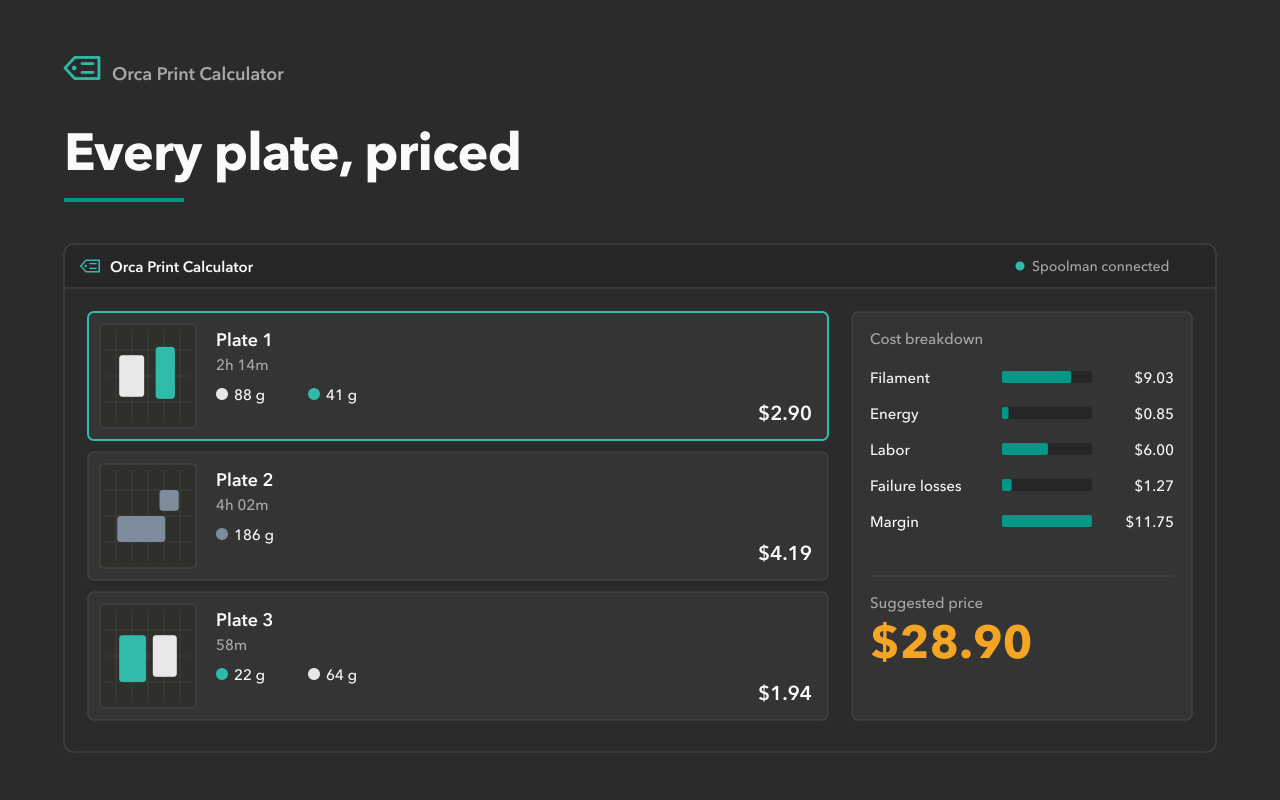
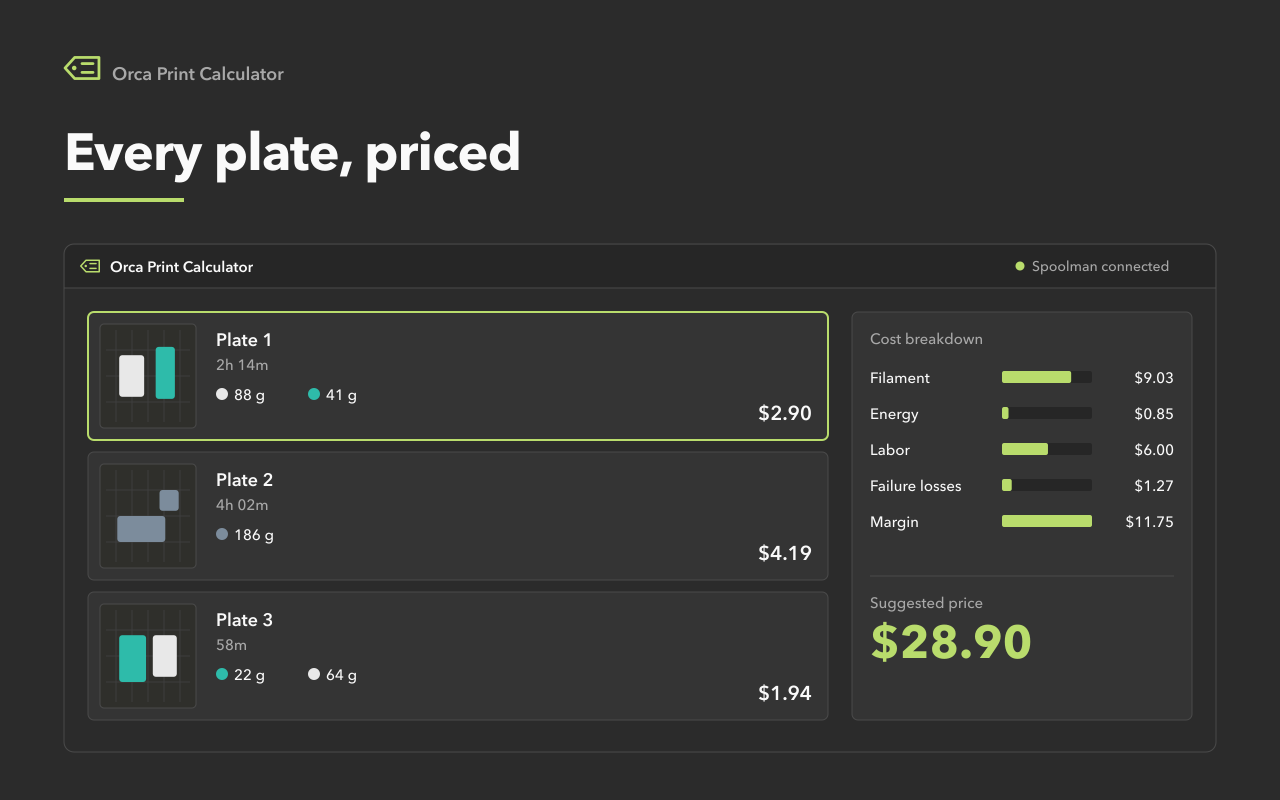
docs(brand): move the brand from teal and amber to deep green and lime
The logo, tile, hero, social and listing images are rebuilt from the same
mark geometry in deep green (light) and lime (graphite), with the price in
lime. BRAND.md describes the lime palette, its contrast pairs and that the
UI takes every colour from the shared foundation; amber is for warnings.

diff --git a/brand/BRAND.md b/brand/BRAND.md
@@ -10,77 +10,69 @@
 Workshop-precise, plain, numerate. Says what the number is and where it came from. Short sentences, active verbs, units always shown. pt-BR uses the imperative ("Precifique", "Envie"), not the formal "o usuário". No hype ("revolutionary", "powerful"), no exclamation marks, no AI talk, no emoji. Money and grams are the heroes; the copy stays out of their way.
 
 ## Palette
+Since 0.5.0 the plugin is lime, the accent it has in the Orca UI foundation 4 family (each sibling plugin has its own). The suggested price is the hero, in the accent. Amber is for warnings only: a partial price, a missing value, a stand-in price.
+
 | Token | Hex | Use |
 |---|---|---|
-| Orca teal | `#009688` | Mark and non-text accents on light |
-| Deep teal | `#00675B` | Text, links and focus on light surfaces; fill under white text |
-| Teal light | `#2EBBAA` | Mark, text, links on graphite (dark-theme counterpart of teal) |
-| Graphite | `#2B2B2B` | Dark surface; text on light |
+| Deep green | `#446600` | The app band (same in both themes), the mark on light surfaces, fills under white text |
+| Lime | `#B9DC6C` | Mark, rules, bars, text and the price on graphite (dark-theme counterpart of deep green) |
+| Graphite | `#2B2B2B` | Dark surface for marketing images; text on light |
 | Off-white | `#FAFAFA` | Light surface; text on dark |
-| Amber | `#F5A524` | **Only the price.** Dark surfaces only |
-| Amber, light theme | `#8A5800` | The price on light surfaces (6.04 on `#FFFFFF`, 5.79 on `#FAFAFA`) |
 | Muted (dark) | `#A8A8A8` | Secondary text on graphite |
 | Muted (light) | `#5C6664` | Secondary text on off-white |
+| Warning amber, light | `#7A4F00` | Warnings on light surfaces only (from the shared palette) |
+| Warning amber, dark | `#F3CC70` | Warnings on dark surfaces only (from the shared palette) |
 
-Brand values above are for assets and docs. The plugin UI follows the host `--orca-*` tokens, with the rules below. `#2EBBAA`, `#A8A8A8`, `#5C6664` extend the plan palette to keep AA on both themes.
+Brand values above are for assets and docs. The plugin UI takes every colour from the shared foundation (`ui/shared`, `--oui-*` tokens) with the `lime` accent (`installOrcaUI(app, locale, "lime")` in `ui/src/orcaUi.ts`); it writes no colour of its own.
 
 ### Contrast (WCAG 2.x, computed)
 | Pair | Ratio | Verdict |
 |---|---|---|
 | `#2B2B2B` on `#FAFAFA` (and reverse) | 13.57 | AAA text |
-| `#00675B` on `#FAFAFA` | 6.51 | AA text |
-| `#00675B` on `#FFFFFF` | 6.79 | AA text |
-| `#2EBBAA` on `#2B2B2B` | 5.94 | AA text |
+| `#446600` on `#FFFFFF` | 6.67 | AA text |
+| `#446600` on `#FAFAFA` | 6.39 | AA text |
+| `#FFFFFF` on `#446600` | 6.67 | AA text (the app band) |
+| `#B9DC6C` on `#2B2B2B` | 9.11 | AAA text |
+| `#B9DC6C` on `#343434` | 8.01 | AAA text |
 | `#A8A8A8` on `#2B2B2B` | 5.95 | AA text |
 | `#5C6664` on `#FAFAFA` | 5.68 | AA text |
-| `#F5A524` on `#2B2B2B` | 6.94 | AA text |
-| `#8A5800` on `#FFFFFF` | 6.04 | AA text |
-| `#8A5800` on `#FAFAFA` | 5.79 | AA text |
-| `#FFFFFF` on `#00675B` | 6.79 | AA text |
-| `#009688` on `#FFFFFF` | 3.67 | Graphics and large text only (3:1) |
-| `#009688` on `#FAFAFA` | 3.52 | Graphics and large text only |
-| `#009688` on `#2B2B2B` | 3.86 | Graphics and large text only |
-| `#FFFFFF` on `#009688` | 3.67 | Large text and icons only |
-| `#00675B` on `#2B2B2B` | 2.08 | **Fail** — never use on dark |
-| `#F5A524` on `#FFFFFF` | 2.04 | **Fail** — never use amber on light |
+| `#7A4F00` on `#FFFFFF` | 7.13 | AA text |
+| `#446600` on `#2B2B2B` | 2.12 | **Fail** — never use deep green on dark |
+| `#B9DC6C` on `#FFFFFF` | 1.55 | **Fail** — never use lime on light |
 
 ### UI rules (plugin CSS)
-- `--orca-accent` (`#009688` light, `#00675B` dark) is for fills under `--orca-accent-fg` and for borders only. Never use it as text, link or focus colour on dark (2.08:1).
-- Accent text, links and focus rings on dark use `--opc-accent-text: #2EBBAA`:
-```css
-:root { --opc-accent-text: #00675B; --opc-price: #8A5800; }
-[data-orca-theme="dark"] { --opc-accent-text: #2EBBAA; --opc-price: #F5A524; }
-```
-- Price figure: `--opc-price`, one per screen. Muted text: `--orca-muted`; check it reaches 4.5:1 on `--orca-bg` in both themes.
+- No colour literals in `ui/src`: use `--oui-*` tokens (`--oui-primary` for the accent, `--oui-warning` for warnings), or `.orca-dark` for anything else. Never `light-dark()`. `ui/tests/themeContrast.test.ts` checks the pairs from the shared palette.
+- Price figure: the hero readout in the accent band, one per screen. A partial price leaves the band for the warning tint and is marked incomplete; a loss takes the danger tint.
+- The printed quote is the customer's document: white paper, the shop's own logo and rule colour (Settings, Quote sheet), ink text. It does not use the plugin's palette.
 
-Rule of thumb: on light, teal text is `#00675B`; on dark, teal text is `#2EBBAA`. Plain `#009688` is for the mark and non-text graphics.
+Rule of thumb: on light, green text is `#446600`; on dark, it is `#B9DC6C`.
 
 ## Typography
 - Assets (build on macOS: text uses the system Avenir Next, other OSes fall back to different metrics): geometric sans, bold (700) for wordmark and headlines, semibold (600) for labels. Rendered assets use Avenir Next with Helvetica Neue fallback (system fonts, no licensing).
-- Plugin UI: inherit `--orca-font`; do not ship a webfont. Tabular numerals for money and weights.
+- Plugin UI: Manrope, embedded by the shared foundation (`ui/shared/src/fonts`, a `data:` font allowed by the page policy `font-src data:`). Tabular numerals for money and weights.
 - Scale (assets): wordmark 34-56, headline 52, label 12-18. Letter-spacing -0.01em on display sizes only.
 
 ## Logo
 The mark: a price tag pointing left (the "price"), a punched hole at its point, two layer-line bars on the face (the "print"). 24x24 grid, 1.5 stroke, round caps and joins, single color. Spool meaning lives in the empty states and copy, not in the mark. Do not put a centered hub circle in a ring: that is the Spooler tab glyph.
 - Construction: tag `M2.75 12L8 6.25H21.25V17.75H8Z`; hole `circle (7.75,12) r1.25` solid; bars `M12 9.6H18M12 14.4H18` (y snapped to the 1.2 grid so edges land on whole pixels at 20px).
-- Files: `brand/logo.svg` (teal `#009688`, for light), `brand/logo-dark.svg` (`#2EBBAA`, for graphite), `ui/src/icon.svg` (`currentColor`, 20px tab glyph, same geometry and 1.5 stroke as the Spooler and Orca tab icons).
+- Files: `brand/logo.svg` (deep green `#446600`, for light), `brand/logo-dark.svg` (lime `#B9DC6C`, for graphite), `ui/src/icon.svg` (`currentColor`, 20px tab glyph, same geometry and 1.5 stroke as the Spooler and Orca tab icons).
 - Clear space: 1/4 of mark width on all sides. Minimum size: 16px. Wordmark lockup minimum 120px wide.
 - Lockup: mark left, wordmark right, gap = 1/3 mark width, vertically centered.
-- Tile (`icon-512.png`): graphite rounded square, mark in teal light at 60% width, 1px inner border.
+- Tile (`icon-512.png`): graphite rounded square, mark in lime at 60% width, 1px inner border.
 - Checked at 16px and 20px on `#2B2B2B` and `#FFFFFF`, beside the Spooler glyph (nearest-neighbour zoom): tag outline, hole and both bars stay separate at 20px; at 16px the bars are slightly soft but distinct.
 
 ## Do
-- Use graphite surfaces for marketing images; teal as a thin rule or the mark only.
-- Show the price colour (amber on dark, `#8A5800` on light) on exactly one number per screen: the suggested price, or the selected channel's price.
+- Use graphite surfaces for marketing images; lime as a thin rule, bars and the mark.
+- Show the price in the accent (lime on dark, the deep green band in the UI) on exactly one number per screen: the suggested price, or the selected channel's price.
 - Keep strokes 1.5-2px, corners 2px (6px for cards), generous negative space.
 - Show real-looking data: plates, grams, spool names, currency symbols.
 
 ## Don't
 - No gradients, glows, glossy 3D, mascots or orcas, sparkles, robots, coins or dollar-sign clipart.
-- No `#F5A524` on light; no `#00675B` on dark; no teal body text on `#009688`.
+- No `#B9DC6C` on light; no `#446600` on dark; no amber except for a warning.
 - Do not recolor, outline, rotate, stretch or add effects to the mark; do not place it on busy imagery.
 - Do not fill the ring or merge the dot into the bars.
 - No emoji in UI or marketing copy.
 
 ## Asset index
-`brand/logo.svg`, `logo-dark.svg`, `logo-512.png`, `logo-1024.png` (transparent), `icon-512.png`, `icon-256.png`, `hero.png`, `social.png`, `listing-1..4.png` + `-pt`, `ui/src/icon.svg`, `ui/src/assets/empty-{plate,spool,quote}.svg`. SVG sources and the regeneration script live in `brand/src/` (`npm i --no-save sharp && node brand/src/build.mjs`).
+`brand/logo.svg`, `logo-dark.svg`, `logo-512.png`, `logo-1024.png` (transparent), `icon-512.png`, `icon-256.png`, `hero.png`, `social.png`, `listing-1..4.png` + `-pt`, `ui/src/icon.svg`, `ui/src/assets/calculator-quote.webp` (the empty-state illustration, from the foundation's illustration set). SVG sources and the regeneration script live in `brand/src/` (`npm i --no-save sharp && node brand/src/build.mjs`).

diff --git a/brand/prompts.md b/brand/prompts.md
@@ -6,14 +6,14 @@ Note: the UI mocks in sections 4 and 5 are design mockups, not product screensho
 
 ## Shared style block (append to every prompt)
 ```
-Brand: "Orca Print Calculator", an OrcaSlicer plugin that prices 3D prints. Palette: Orca teal #009688, deep teal #00675B, graphite #2B2B2B, off-white #FAFAFA, one warm amber #F5A524 used only for the price figure. Flat vector, precise engineering feel; 1.5px strokes, 2px corner radius, generous negative space, geometric sans-serif type. Pixel-sharp edges, solid fills, no texture.
+Brand: "Orca Print Calculator", an OrcaSlicer plugin that prices 3D prints. Palette: deep green #446600, lime #B9DC6C, graphite #2B2B2B, off-white #FAFAFA, the price figure in lime; amber only for warnings. Flat vector, precise engineering feel; 1.5px strokes, 2px corner radius, generous negative space, geometric sans-serif type. Pixel-sharp edges, solid fills, no texture.
 Negative prompt: glossy 3D render, gradient, glow, drop shadow, robot, AI motif, sparkle, orca/whale mascot, coins, dollar-sign clipart, emoji, stock photo, hands, watermark, misspelled or extra text; no text unless stated.
 ```
 
 ## 1. Logo mark
 ```
 Size: 1024x1024. Background: transparent.
-Minimal logo mark: a price tag pointing left, drawn as a single outline (flat right edge, angled left point), stroke weight about 8% of the mark's width, round caps and joins. A solid circular punch hole sits inside the left point. To the right of the hole, two short parallel horizontal bars (layer lines) stacked with a gap equal to the stroke weight. Single color teal #009688. Geometric, optically centered, legible at 16px, nothing else.
+Minimal logo mark: a price tag pointing left, drawn as a single outline (flat right edge, angled left point), stroke weight about 8% of the mark's width, round caps and joins. A solid circular punch hole sits inside the left point. To the right of the hole, two short parallel horizontal bars (layer lines) stacked with a gap equal to the stroke weight. Single color deep green #446600. Geometric, optically centered, legible at 16px, nothing else.
 Negative prompt: shading, ring or circle around the tag, spool, string, text, arrows, face.
 ```
 
@@ -23,39 +23,39 @@ Hand-authored SVG, no image-model prompt: `ui/src/icon.svg`. Same geometry as th
 ## 3. Hub listing icon
 ```
 Size: 512x512 and 256x256. Background: transparent corners.
-App icon: rounded-square tile, graphite #2B2B2B, corner radius 22%, 1px inner border #4A4A4A inset 12px. Logo mark in light teal #2EBBAA centered at 60% of tile width. Nothing else.
+App icon: rounded-square tile, graphite #2B2B2B, corner radius 22%, 1px inner border #4A4A4A inset 12px. Logo mark in lime #B9DC6C centered at 60% of tile width. Nothing else.
 Negative prompt: gloss, bevel, shadow, gradient, text.
 ```
 
 ## 4. README hero
 ```
-Size: 1600x640. Background: graphite #2B2B2B, 4px teal rule along the top edge.
-Left third (only text here): logo mark, wordmark "Orca Print Calculator" in bold geometric sans (white), tagline "Price every plate." in light teal, small muted line "Calculator for OrcaSlicer".
-Right two thirds: flat dark UI mock of a slicer tab in a window frame: three build-plate cards (bed thumbnail with 1-2 simple colored blocks, plate name, time, two filament chips with color dots, cost at right) beside a panel with a five-row cost breakdown bar list (Filament, Energy, Labor, Failure losses, Margin) and one large amber #F5A524 price "$28.90" labelled "Suggested price". Use short labels and numbers only where listed; every other line of text is an abstract grey bar.
+Size: 1600x640. Background: graphite #2B2B2B, 4px lime rule along the top edge.
+Left third (only text here): logo mark, wordmark "Orca Print Calculator" in bold geometric sans (white), tagline "Price every plate." in lime, small muted line "Calculator for OrcaSlicer".
+Right two thirds: flat dark UI mock of a slicer tab in a window frame: three build-plate cards (bed thumbnail with 1-2 simple colored blocks, plate name, time, two filament chips with color dots, cost at right) beside a panel with a five-row cost breakdown bar list (Filament, Energy, Labor, Failure losses, Margin) and one large lime #B9DC6C price "$28.90" labelled "Suggested price". Use short labels and numbers only where listed; every other line of text is an abstract grey bar.
 Negative prompt: any other text, perspective tilt, device mockup frame.
 ```
 
 ## 5. Hub description images (x4, plus pt-BR variants)
 ```
-Size: 1280x800 each. Background: graphite. Small mark + "Orca Print Calculator" top-left in muted grey, large bold caption in off-white with a short teal rule beneath, flat dark UI mock filling the lower 65%.
-1. "Every plate, priced" / pt-BR "Cada placa, precificada": plate cards plus cost breakdown, amber total.
+Size: 1280x800 each. Background: graphite. Small mark + "Orca Print Calculator" top-left in muted grey, large bold caption in off-white with a short lime rule beneath, flat dark UI mock filling the lower 65%.
+1. "Every plate, priced" / pt-BR "Cada placa, precificada": plate cards plus cost breakdown, lime total.
 2. "Real filament cost from Spoolman" / pt-BR "Custo real de filamento via Spoolman": rows linking printer slots (AMS A1...) to spool color ring, name, remaining bar, price per kg.
-3. "Know your margin on every channel" / pt-BR "Saiba sua margem em cada canal": user-defined channel rows Direct, Online store, Marketplace, Wholesale (pt-BR: Direto, Loja online, Marketplace, Atacado) with illustrative fee, amber price, margin bar.
-4. "Send a quote in one click" / pt-BR "Envie um orçamento em um clique": white printable quote sheet with line items and a graphite total bar with amber total.
+3. "Know your margin on every channel" / pt-BR "Saiba sua margem em cada canal": user-defined channel rows Direct, Online store, Marketplace, Wholesale (pt-BR: Direto, Loja online, Marketplace, Atacado) with illustrative fee, lime price, margin bar.
+4. "Send a quote in one click" / pt-BR "Envie um orçamento em um clique": white printable quote sheet with line items and a graphite total bar with lime total.
 Text allowed: the caption and the price figures named for each image; every other label is an abstract grey bar. Quote sheet carries a placeholder shop name ("Studio Layer"), not the plugin brand.
 Negative prompt: lorem ipsum, real marketplace names or logos, extra text.
 ```
 
 ## 6. Social preview
 ```
-Size: 1280x640. Background: graphite, 6px teal rule across the top.
-Left-center: logo mark (light teal), wordmark "Orca Print Calculator" bold white, short teal rule, tagline "Price every plate." in light teal, muted line "Calculator for OrcaSlicer". Bottom-right muted "OrcaSlicer plugin".
+Size: 1280x640. Background: graphite, 6px lime rule across the top.
+Left-center: logo mark (lime), wordmark "Orca Print Calculator" bold white, short lime rule, tagline "Price every plate." in lime, muted line "Calculator for OrcaSlicer". Bottom-right muted "OrcaSlicer plugin".
 Negative prompt: illustration, UI mock, gradient.
 ```
 
 ## 7. Empty-state illustrations (x3)
 ```
-Size: 240x160. Background: transparent. Single-stroke line illustration, 1.5px stroke, round caps and joins, one color teal #2EBBAA on transparent, secondary lines at 40% opacity, no fills.
+Size: 240x160. Background: transparent. Single-stroke line illustration, 1.5px stroke, round caps and joins, one color lime #B9DC6C on transparent, secondary lines at 40% opacity, no fills.
 (a) unsliced build plate: isometric flat bed with faint grid and a dashed isometric box on it where a part will go.
 (b) unplugged spool for "Spoolman not connected": spool front-on with concentric rings at left and a cable running out of it, a gap, then a plug with two prongs and its own cable at right.
 (c) blank quote sheet: page with folded corner, faint placeholder lines, dashed line at the bottom for the total.
